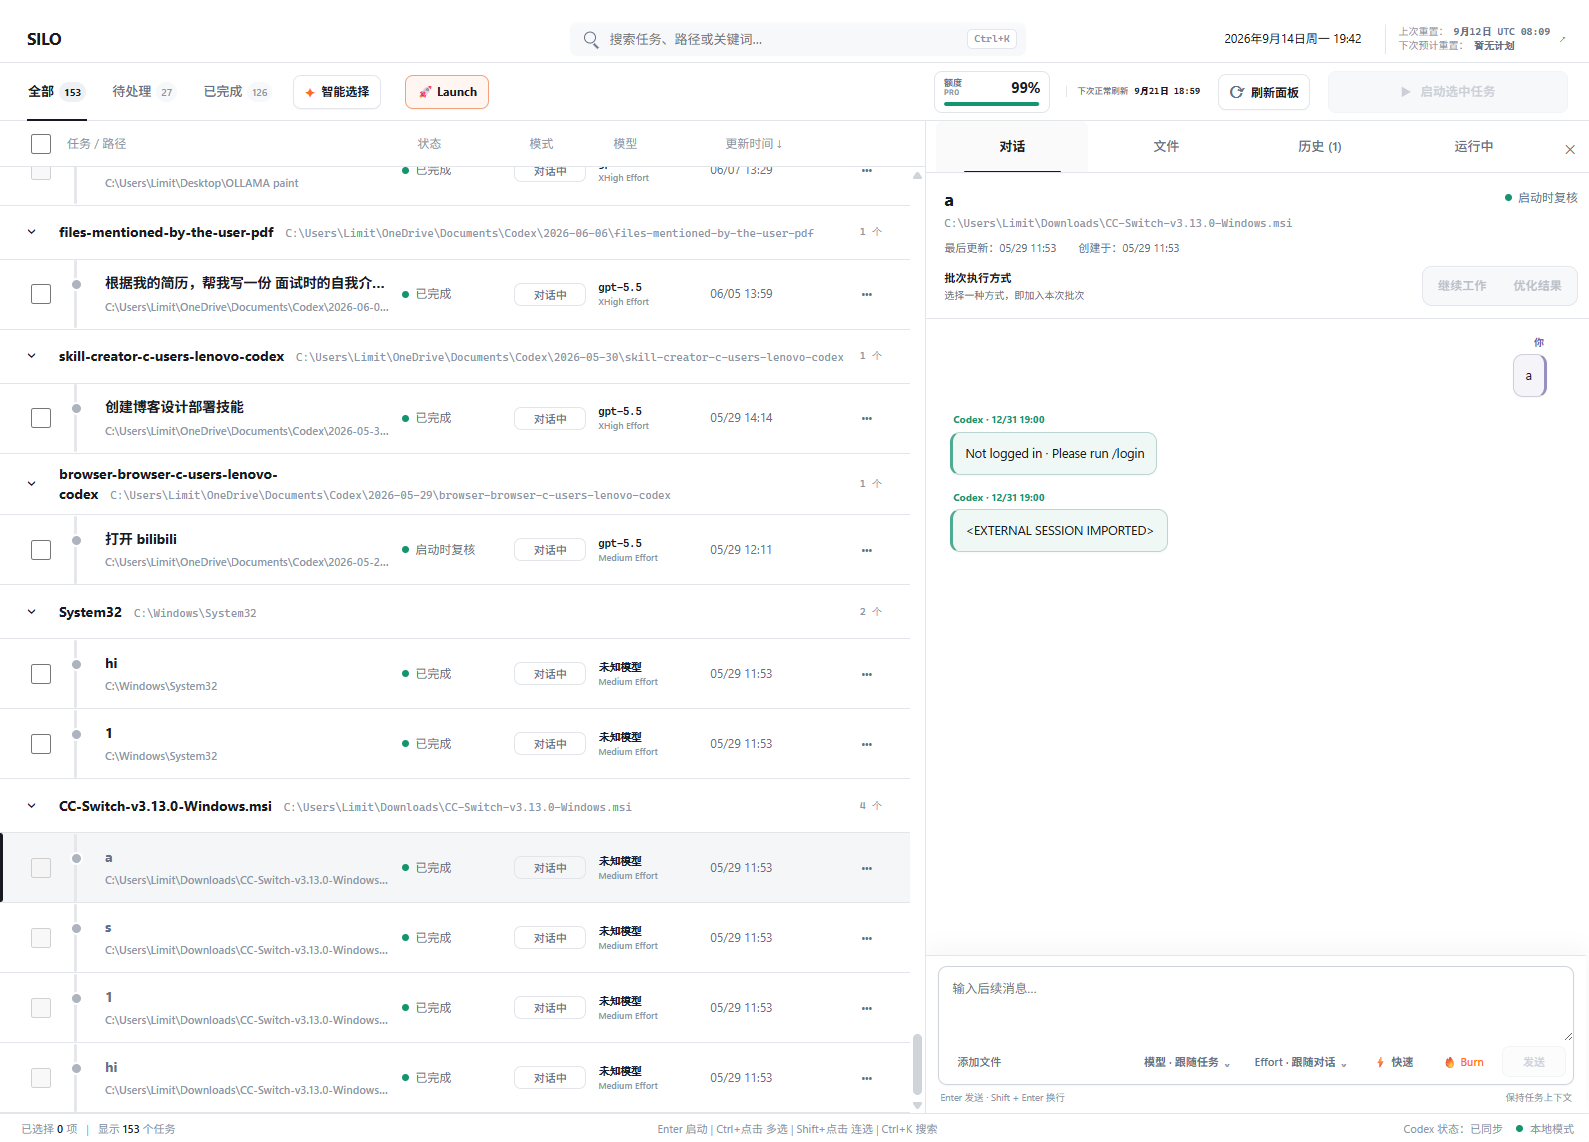
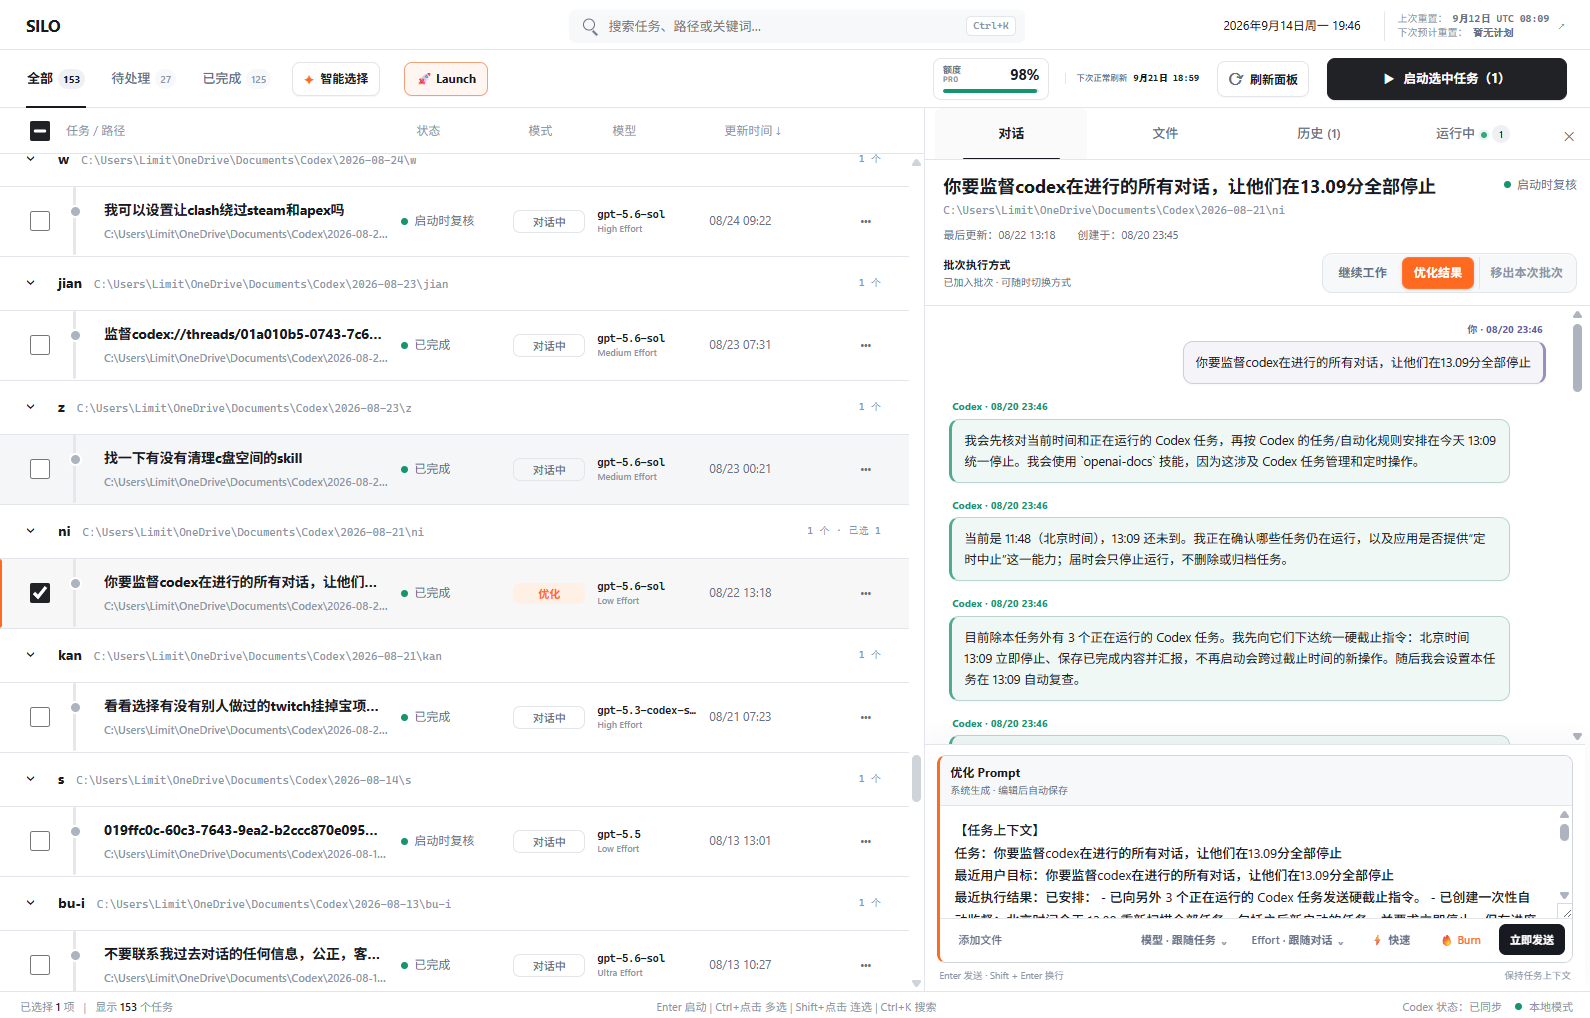
docs: add detailed SILO interface walkthrough

diff --git a/README.md b/README.md
@@ -10,6 +10,57 @@ Current release: **v0.6.2** (`0.6.2+codex.20260914`)
 
 > The overview above is a maintainer-provided capture of SILO in Codex. The focused conversation and compact-layout screenshots below are rendered from the current `ui/control.html` with fictional local Mock Host data.
 
+## Interface guide
+
+### Task filters and one-click presets
+
+![SILO task filters, Smart select, and Launch](docs/images/silo-controls-zoom.png)
+
+| Control | What it does |
+|---|---|
+| **All / To do / Completed** | Changes only the visible task view. It does not alter the selection or launch anything. Each badge shows the number of tasks in that view. |
+| **Smart select** | Reads at most the latest two turns of candidate tasks and recommends which ones to Continue or Optimize. It proposes; it does not run. |
+| **🚀 Launch** | Uses Smart select logic, then applies Continue, Burn, Fast, and conversation-following model/effort settings. It is a reversible preset: press it again to remove the selections it added. A separate launch confirmation is still required. |
+| **Task checkbox** | Adds that task to or removes it from the current batch. |
+| **Task title** | Opens the task details without changing batch selection. |
+| **⋯** | Opens additional actions for that task. |
+
+### Personal quota, refresh, and dispatch
+
+![SILO quota, refresh, and launch controls](docs/images/silo-quota-controls-zoom.png)
+
+| Control | What it does |
+|---|---|
+| **Quota card** | Shows the current Codex account balance. Plus accounts also show the five-hour window; the adjacent value shows the next standard-window reset. |
+| **Refresh panel** | Rescans tasks, running state, and quota inside the current SILO panel. It does not create a chat or send a prompt to another task. |
+| **Launch selected** | Opens the batch review dialog. It becomes available only when tasks are selected and their prompts are ready; dispatch happens only after confirmation. |
+
+### Top right: Tibo reset prediction
+
+![SILO Tibo reset prediction](docs/images/silo-reset-prediction-zoom.png)
+
+This area shows the **global goodwill-reset outlook**. When SILO opens, it reads the last verified reset and the next prediction from the third-party [codex-reset.com](https://codex-reset.com/) tracker. That site follows Tibo's ([@thsottiaux](https://x.com/thsottiaux)) public X/Twitter posts, verified events, and historical reset cadence. Click the area to open the detailed forecast, timeline, and sources.
+
+This is different from the personal quota card: the quota card reflects the signed-in Codex account's own windows, while the Tibo area summarizes public global-reset signals. SILO displays “No schedule” when there is no credible announced window. This is a third-party prediction, not an official OpenAI commitment.
+
+### Conversation, mode, and per-task controls
+
+![SILO conversation and per-task controls](docs/images/silo-task-actions-zoom.png)
+
+| Control | What it does |
+|---|---|
+| **Conversation** | Shows message history and lets you send a follow-up prompt as you would in Codex. |
+| **Files** | Browses text files referenced by the conversation or found in its working directory, with an in-panel preview. |
+| **History** | Shows SILO batches and their status changes. |
+| **Running** | Collects Codex tasks that are currently running or waiting for attention and keeps their state updated. |
+| **Continue** | Continues from the existing conversation context and generates the matching Continue prompt. |
+| **Optimize** | Reviews and improves an existing result and generates the matching Optimize prompt. |
+| **Model / Effort** | Follows the original conversation by default, with optional per-task overrides. |
+| **⚡ Fast** | Requests the Codex Fast service tier for the current send. |
+| **🔥 Burn** | Appends a throughput-oriented parallel-execution strategy. Turning on Burn also enables Fast, without weakening verification or safety boundaries. |
+| **Send / Send now** | Sends the current message or reviewed execution prompt to the original Codex task. |
+| **×** | Closes the detail view and returns to the task list. |
+
 ## What SILO gives you
 
 SILO keeps the high-frequency controls in one workbench: find the right task, decide whether to Continue or Optimize it, review the exact prompt and settings, then launch only after confirmation.
